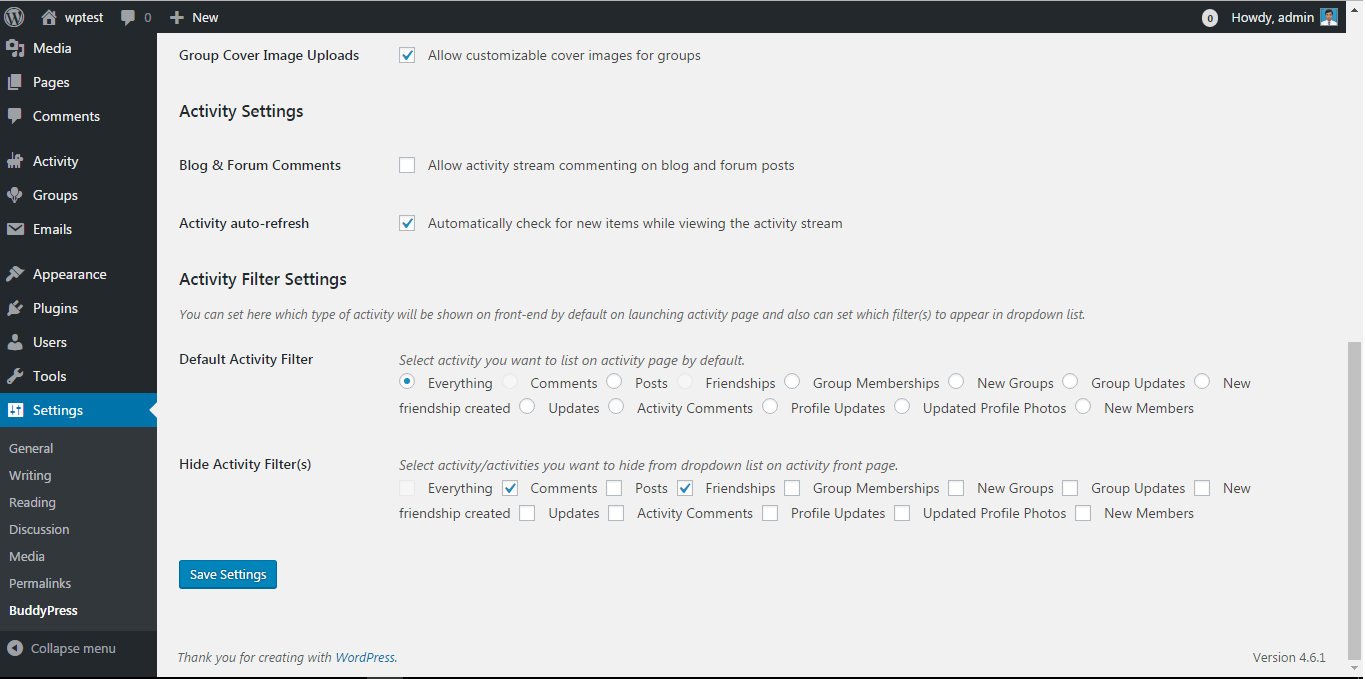
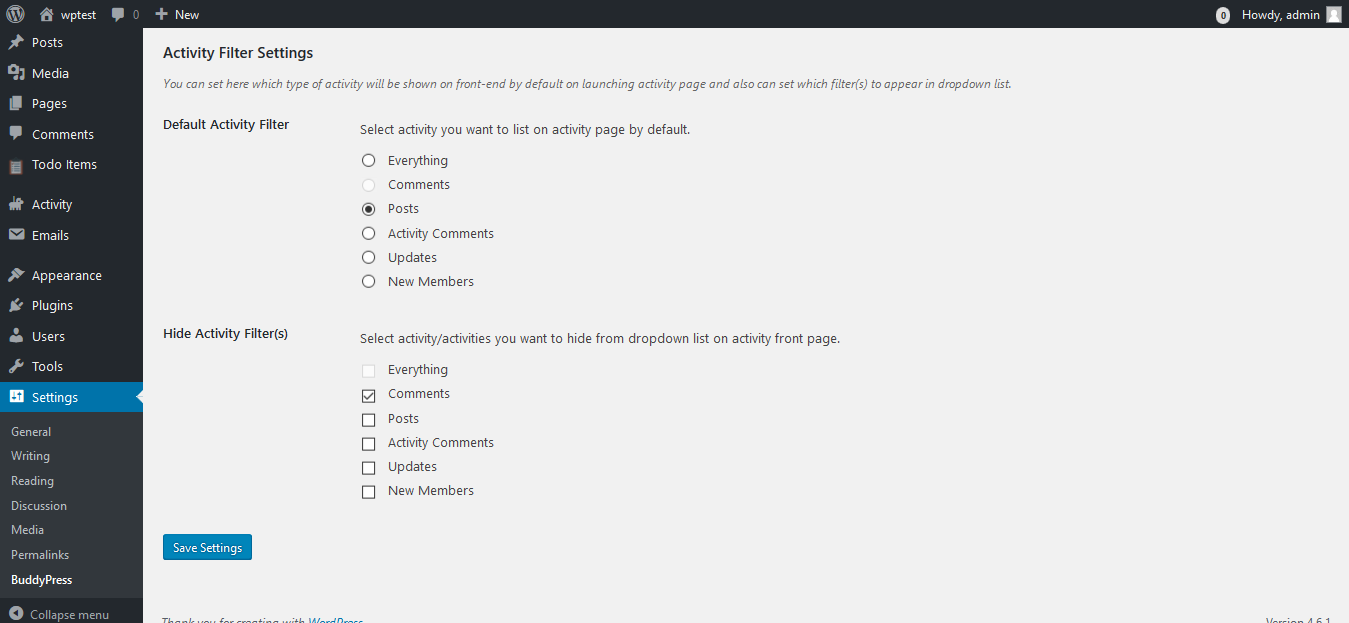
Fixed text domain issue.

Changed region(s): [[0.0, 0.0, 1.0, 1.0], [0.2802, 0.6709, 0.934, 0.7929]]

diff --git a/admin/css/bp-activity-filter.css b/admin/css/bp-activity-filter.css
@@ -16,3 +16,6 @@ table.form-table tbody tr td table caption.description {
 table.form-table td.filter-option {
     padding: 0 !important;
 }
+.form-table table {
+    width: 100% !important;
+}

diff --git a/admin/class-bp-activity-filter-admin-setting.php b/admin/class-bp-activity-filter-admin-setting.php
@@ -99,7 +99,7 @@ if (!class_exists('WbCom_BP_Activity_Filter_Admin_Setting')) {
 				'bp_activity_filter_section',
 		 
 				/* the title of your section */
-				__( 'Activity Filter Settings',  'buddypress' ),
+				__( 'Activity Filter Settings',  'bp-activity-filter' ),
 		 
 				/* the display function for your section's description */
 				array(&$this,'bp_activity_filter_section_callback'),
@@ -114,7 +114,7 @@ if (!class_exists('WbCom_BP_Activity_Filter_Admin_Setting')) {
 				'bp_activity_filter_filed_1',
 		 
 				/* The title for your setting */
-				__( 'Default Activity Filter', 'buddypress' ),
+				__( 'Default Activity Filter', 'bp-activity-filter' ),
 		 
 				/* Display function */
 				array(&$this,'bp_activity_filter_filed_1_callback'),
@@ -135,7 +135,7 @@ if (!class_exists('WbCom_BP_Activity_Filter_Admin_Setting')) {
 				'bp_activity_filter_filed_2',
 		 
 				/* The title for your setting */
-				__( 'Hide  Activity Filter(s)', 'buddypress' ),
+				__( 'Hide  Activity Filter(s)', 'bp-activity-filter' ),
 		 
 				/* Display function */
 				array(&$this,'bp_activity_filter_filed_2_callback'),
@@ -169,7 +169,7 @@ if (!class_exists('WbCom_BP_Activity_Filter_Admin_Setting')) {
 		 */
 		public function bp_activity_filter_section_callback() { ?>
 		    <p id="bp_activity_filter" class="description">
-		    	<?php _e('You can set here which type of activity will be shown on front-end by default on launching activity page and also can set which filter(s) to appear in dropdown list.', 'buddypress'); ?>
+		    	<?php _e('You can set here which type of activity will be shown on front-end by default on launching activity page and also can set which filter(s) to appear in dropdown list.', 'bp-activity-filter'); ?>
 		    </p>
 		    <?php
 		}
@@ -180,7 +180,7 @@ if (!class_exists('WbCom_BP_Activity_Filter_Admin_Setting')) {
 		public function bp_activity_filter_filed_1_callback($labels) {  ?>
 			<table>		
 			<caption class="description">
-		    	<?php _e( 'Select activity you want to list on activity page by default.', 'buddypress' );?>
+		    	<?php _e( 'Select activity you want to list on activity page by default.', 'bp-activity-filter' );?>
 		    </caption>   
 		    
 			<?php 
@@ -199,14 +199,14 @@ if (!class_exists('WbCom_BP_Activity_Filter_Admin_Setting')) {
 		    <tr>
 		    	<td class="filter-option">
 		    		<input id="bp-activity-filter-everything-radio" name="bp-default-filter-name" type="radio" value="-1"  <?php  echo ($bp_default_activity_value == -1) ? "checked=checked": " ";?>/>
-					<label for="bp-default-filter-name"><?php _e( "Everything", 'buddypress' ); ?></label>	</td>
+					<label for="bp-default-filter-name"><?php _e( "Everything", 'bp-activity-filter' ); ?></label>	</td>
 					</tr>
 		    <?php foreach ( $labels as $key => $value ) : 
 							if ( !empty($value) ) { ?>
 								<tr>
 									<td class="filter-option">
 							    		<input id="<?php echo $key."_radio";?>" name="bp-default-filter-name" type="radio" value="<?php echo $key;?>" <?php  echo ($bp_default_activity_value == $key) ? "checked=checked ": " "; if  ( !empty ( $bp_hidden_filters_value ) && is_array( $bp_hidden_filters_value ) ) { echo ( in_array( $key, $bp_hidden_filters_value ) ) ? "disabled=disabled" : " "; }?>  />
-							    		<label for="<?php echo $key;?>"><?php _e( $value, 'buddypress' ); ?></label>
+							    		<label for="<?php echo $key;?>"><?php _e( $value, 'bp-activity-filter' ); ?></label>
 							    	</td>
 							    </tr>
 						    <?php }
@@ -221,7 +221,7 @@ if (!class_exists('WbCom_BP_Activity_Filter_Admin_Setting')) {
 		public function bp_activity_filter_filed_2_callback( $labels ) { ?>
 		 <table>
 			<caption class="description">
-		    	<?php _e( 'Select activity/activities you want to hide from dropdown list on activity front page.', 'buddypress' );?>
+		    	<?php _e( 'Select activity/activities you want to hide from dropdown list on activity front page.', 'bp-activity-filter' );?>
 		    </caption>
 			
 			<?php 
@@ -231,7 +231,7 @@ if (!class_exists('WbCom_BP_Activity_Filter_Admin_Setting')) {
 		    <tr>
 		    	<td class="filter-option">
 		    		<input id="bp-activity-filter-everything-checkbox" name="bp-hidden-filters-name[]" type="checkbox" value="-1"  disabled="disabled" />
-					<label for="bp-hidden-filters-name"><?php _e( 'Everything', 'buddypress' ); ?></label>
+					<label for="bp-hidden-filters-name"><?php _e( 'Everything', 'bp-activity-filter' ); ?></label>
 				</td>
 			</tr>
 			
@@ -240,7 +240,7 @@ if (!class_exists('WbCom_BP_Activity_Filter_Admin_Setting')) {
 						<tr>
 							<td class="filter-option">	    		
 					    		<input id="<?php echo $key."-checkbox"?>" name="bp-hidden-filters-name[]" type="checkbox" value="<?php echo $key;?>" <?php  echo ( (!empty($bp_hidden_filters_value) && is_array( $bp_hidden_filters_value )) && in_array($key, $bp_hidden_filters_value)) ? "checked" : " "; ?> />
-					    		<label for="bp-hidden-filters-name"><?php _e( $value, 'buddypress' ); ?></label>
+					    		<label for="bp-hidden-filters-name"><?php _e( $value, 'bp-activity-filter' ); ?></label>
 					    	</td>
 					    </tr>					    
 		    	<?php }

diff --git a/admin/class-bp-activity-filter-admin-script-includer.php b/admin/class-bp-activity-filter-admin-script-includer.php
@@ -1,6 +1,6 @@
 <?php
 /**
- * Including CSS and JS for addmin setting 
+ * Including CSS  for addmin setting 
  */
 
 if (!class_exists('WbCom_BP_Activity_Filter_Script_Includer')) {
@@ -10,46 +10,21 @@ if (!class_exists('WbCom_BP_Activity_Filter_Script_Includer')) {
 		 */
 		public function __construct() {
 			/**
-			 * Adding style and scripts for admin settings
+			 * Adding style for admin settings
 			 */
-			add_action('admin_enqueue_scripts', array(&$this,'include_admin_css_js_function'));
-			
-			/**
-			 * Adding style and scripts for front end
-			 */
-			add_action('wp_enqueue_scripts', array(&$this,'include_front_css_js_function'));
+			add_action('admin_enqueue_scripts', array(&$this,'include_admin_css_function'));
 			
 		}
 		
 		/**
-		 * Adding css and js files
+		 * Adding css files
 		 */
-		public function include_admin_css_js_function () {
-			// Register the script 
-			wp_register_script( 'custom_admin_script', plugins_url('js/bp-activity-filter.js', __FILE__) , false , '1.0.0');
-    		
-			wp_enqueue_script('custom_admin_script');
-    		
+		public function include_admin_css_function () {
+			// Register and enqueue style
 			wp_register_style( 'custom_wp_admin_css', plugins_url('css/bp-activity-filter.css', __FILE__), false, '1.0.0' );
     		
 			wp_enqueue_style( 'custom_wp_admin_css' );
         	
-		}
-		
-		/**
-		 * Adding css and js files for front end
-		 */
-		public function include_front_css_js_function () {
-			// Register the script 
-			
-			wp_register_script( 'min_js_front_script', plugins_url('templates/js/jquery-1.12.0.min.js', plugin_dir_path(__FILE__)) , false , '1.0.0');
-    		
-			wp_enqueue_script('min_js_front_script');
-			
-			wp_register_script( 'custom_front_script', plugins_url('templates/js/bp-activity-filter-front.js', plugin_dir_path(__FILE__)) , false , '1.0.0');
-    		
-			wp_enqueue_script('custom_front_script');
-   
 		}
 		
 	}

diff --git a/buddypress-activity-filter.php b/buddypress-activity-filter.php
@@ -39,7 +39,12 @@ else if (!class_exists('WbCom_BP_Activity_Filter')) {
 		/**
 		 * Constructor
 		 */
-		public function __construct() {						
+		public function __construct() {			
+			/**
+			 * Adding text domain
+			 */
+			$this->bp_activity_filter_load_textdomain();
+			
 			/**
 			 * Adding setting link on plugin listing page
 			 */
@@ -72,11 +77,19 @@ else if (!class_exists('WbCom_BP_Activity_Filter')) {
 			
 		}
 		
+		//Load plugin textdomain.
+		public function bp_activity_filter_load_textdomain() {
+		    $domain = "bp-activity-filter";
+		    $locale = apply_filters('plugin_locale', get_locale(), $domain);
+		    load_textdomain($domain, 'languages/'.$domain.'-'.$locale.'.mo');
+		    $var = load_plugin_textdomain($domain, false, plugin_basename(dirname(__FILE__)).'/languages');
+		}
+		
 		/**
 		 * @desc Adds the Settings link to the plugin activate/deactivate page
 		 */
-		public function bp_activity_filter_plugin_actions($links, $file) { //die('here');
-			$settings_link = '<a href="' . admin_url("admin.php?page=bp-settings#bp_activity_filter") . '">' . __('Settings', 'buddypress') . '</a>';
+		public function bp_activity_filter_plugin_actions($links, $file) {
+			$settings_link = '<a href="' . admin_url("admin.php?page=bp-settings#bp_activity_filter") . '">' . __('Settings', 'bp-activity-filter') . '</a>';
 			array_unshift($links, $settings_link); // before other links
 			return $links;
 		}
@@ -88,7 +101,7 @@ if (class_exists('WbCom_BP_Activity_Filter')) {
 }
 function buddypress_not_active_notice() { ?>
     <div class="error notice">
-        <p><?php _e('To work BuddyPress  Activity Filter, Buddypress should be activated', 'buddypress'); ?></p>
+        <p><?php _e('To work BuddyPress  Activity Filter, Buddypress should be activated', 'bp-activity-filter'); ?></p>
     </div>
     <?php
 }
